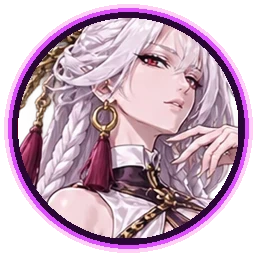
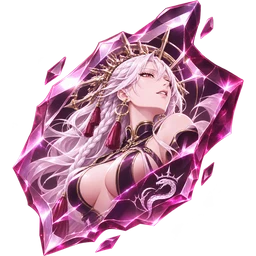
v188：維歐娜印記與特效調整、限定池 300 碎片與皮膚兌換、抽獎按鈕置中
Claude-Session: https://claude.ai/code/session_01QdhywRXf3CPbK6yPmqVdsn

diff --git a/js/viona_v187.js b/js/viona_v187.js
@@ -6,7 +6,7 @@
    被動「女神之印」（存在維歐娜身上，最多 3 層）：
      ・每施放一招 +1 層（第 1～3 招說明裡的「附加一層」就是這一層，不會重複疊）。
      ・每層讓對手對維歐娜造成的傷害 -10%。
-     ・達到 3 層時進行「臣服判定」（50%）：成功 → 對手隨機一招的次數歸 0（BOSS 改為失去目前體力 20%），印記歸零重新累積；失敗則保持 3 層，下次出招再判定。
+     ・v188 使用者 11/09：最多 3 層；滿 3 層必定觸發被動「臣服」→ 對手隨機一招的次數歸 0（BOSS 改為失去目前體力 20%），效果結束後印記歸零重新累積。
    狀態：
      魅惑（ABN.charm，2 回合）：施加時攻擊 -1、速度 -1；神妃對魅惑中的對手傷害 +40%。
      臣服（ABN.subdue，CC）：無法行動，施加時解除對手的能力提升與強化效果。
@@ -14,7 +14,7 @@
    特效：紫紅色系漸層（VFX 表）。 */
 (function () {
   if (typeof CHARACTERS === 'undefined') return;
-  const V = 187, img = n => `assets/chars/${n}.webp?v=${V}`, ui = n => `assets/ui/${n}.webp?v=${V}`;
+  const V = 188, img = n => `assets/chars/${n}.webp?v=${V}`, ui = n => `assets/ui/${n}.webp?v=${V}`;
   const B = () => (typeof battle !== 'undefined' && battle) || null;
   const L = m => { try { log(m); } catch (e) { } };
   const R = (a, b) => a + Math.random() * (b - a), pct = x => Math.round(x * 100);
@@ -33,20 +33,20 @@
 
   /* ---------- 角色資料 ---------- */
   const S = (o) => Object.assign({ accuracy: 100, maxPP: o.pp, tags: [] }, o);
-  const PASSIVE = '【被動・女神之印】每施放一招累積 1 層（最多 3 層），每層使對手對自己的傷害 -10%；滿 3 層時 50% 觸發「臣服判定」：對手隨機一招的次數歸 0（BOSS 改為失去目前體力 20%），之後印記重新累積。';
+  const PASSIVE = '【被動・女神之印】每施放一招累積 1 層（最多 3 層），每層使對手對自己的傷害 -10%；不論疊幾次最多 3 層；滿 3 層時立刻觸發「臣服」：對手隨機一招的次數歸 0（BOSS 改為失去目前體力 20%），效果結束後印記歸零、重新累積。';
   CHARACTERS.viona = { id: 'viona', name: '賽博亞齊·維歐娜', title: '初代女帝', types: ['超能'], scale: 1, worldScale: 1, battleScale: SZ0, ai: 'control',
     image: img('viona'), avatar: img('viona_face'), ultimateBg: img('viona_venus'), cardPos: '50% 8%', cardFocus: '52% 10%',
     maxHp: 2150, baseSpeed: 124, statScale: 1.2, role: '攻擊控制型',
     desc: '本遊戲原創角色。亞馬遜百合·九蛇島的初代女帝，空白一百年中少數被記錄下來的傳說人物，擁有極高的智謀與強大的實力。吃下人人果實·幻獸種·維納斯型態，手持無上大快刀「神妃」。【定位】攻擊控制型：用「女神之印」削弱對手的傷害並讓對手臣服，魅惑與臣服控場，維納斯型態下以終焉·黃昏一擊定勝負。' + PASSIVE,
     passive: PASSIVE,
     skills: [
-      S({ name: '垂憐', type: 'attack', power: 100, pp: 10, anima: 'petals', desc: '【範圍】敵方全體（後排同樣受到傷害）。造成 180% 攻擊傷害，附加 1 層女神之印。45% 機率使對手「魅惑」2 回合：攻擊 -1、速度 -1。',
+      S({ name: '垂憐', type: 'attack', power: 100, pp: 10, anima: 'snake', desc: '【範圍】敵方全體（後排同樣受到傷害）。造成 180% 攻擊傷害，附加 1 層女神之印。45% 機率使對手「魅惑」2 回合：攻擊 -1、速度 -1。',
         tags: [['全體', 'red'], ['魅惑', 'gold'], ['女神之印', 'gold']], effect: { randomMultiplierRange: [1.8, 1.8], splash: 1, vioCharm: .45 } }),
       S({ name: '神妃', type: 'attack', power: 100, pp: 8, anima: 'slash', desc: '【範圍】單體。無上大快刀「神妃」斬擊，造成 100～500% 傷害，無視 30% 防禦；對「魅惑」中的對手傷害再 +40%。附加 1 層女神之印。',
         tags: [['斬擊', 'red'], ['破防', 'red'], ['魅惑增傷', 'gold']], effect: { randomMultiplierRange: [1, 5], vioIgnoreDef: .3, vioCharmBonus: .4 } }),
       S({ name: '萬王俯首', type: 'support', power: 0, pp: 5, anima: 'awaken', desc: '【範圍】自身＋對手。全能力 +1，附加 1 層女神之印；每 1 層印記使對手有 25% 機率「臣服」1 回合（3 層＝75%）：無法行動，且能力提升與強化效果全部解除。',
         tags: [['強化', 'gold'], ['臣服', 'red'], ['女神之印', 'gold']], effect: { statUpAll: 1, vioSubdueStack: .25 } }),
-      S({ name: '維納斯降臨', type: 'support', power: 0, pp: 3, anima: 'awaken', desc: '【範圍】自身＋對手。進入「維納斯型態」2 回合，女神之印直接疊滿 3 層；下回合攻擊 +30%、2 回合受到的傷害 -10%；對手 2 回合每回合受到 100～1000 固定傷害；清除自身的負面狀態與能力下降。這一回合對手的攻擊無效，並 100% 反彈。',
+      S({ name: '維納斯降臨', type: 'support', power: 0, pp: 3, anima: 'awaken', desc: '【範圍】自身＋對手。進入「維納斯型態」2 回合，女神之印直接疊滿 3 層（立刻觸發被動臣服，之後歸零重新累積）；下回合攻擊 +30%、2 回合受到的傷害 -10%；對手 2 回合每回合受到 100～1000 固定傷害；清除自身的負面狀態與能力下降。這一回合對手的攻擊無效，並 100% 反彈。',
         tags: [['變身', 'gold'], ['反彈', 'green'], ['淨化', 'green'], ['固定傷害', 'red']],
         effect: { vioVenus: { turns: 2 }, nextAttackMult: 1.3, nextAttackMultTurns: 1, damageReductionTurns: 2, damageReductionValue: .1, clearSelfDebuffs: true, reflectTurns: 1, reflectMultiplier: 1, vioDot: [100, 1000, 2] } }),
       S({ name: '終焉·黃昏', type: 'attack', power: 100, pp: 2, ultimate: true, anima: 'slash', desc: '奧義（無法用道具恢復次數）。【範圍】敵方全體。對手體力直接降到最大體力的 10%（BOSS 無效），再造成 520～1314% 傷害、無視 20～50% 防禦；每層女神之印最終傷害 +15%（最多 +45%）。45% 機率使對手「臣服」1 回合；隨機降低對手的技能共 5 次（BOSS 無效）。【維納斯型態下施放】追加一次 160% 的神罰傷害（無視 20% 減傷），並進入「自由」2 回合：不受任何控制與限制。',
@@ -54,16 +54,16 @@
     ] };
   if (typeof CHARACTER_ORDER !== 'undefined' && !CHARACTER_ORDER.includes('viona')) CHARACTER_ORDER.push('viona');
   if (typeof CHAR_RARITY !== 'undefined') CHAR_RARITY.viona = 'UR';
-  if (typeof CHAR_OBTAIN !== 'undefined') CHAR_OBTAIN.viona = { boss: 0, bossFirst: 0, bossRepeat: 0, eventOnly: true, npc: '本遊戲原創角色・限定抽獎池「初代女帝」：集滿 150 碎片合成（無法從一般召喚取得）' };
-  if (typeof SKINS !== 'undefined') SKINS.viona_bunny = { char: 'viona', name: '無名女郎', image: img('viona_bunny'), avatar: img('viona_bunny_face'), battleScale: .55, how: '暫時無法獲得' };
+  if (typeof CHAR_OBTAIN !== 'undefined') CHAR_OBTAIN.viona = { boss: 0, bossFirst: 0, bossRepeat: 0, eventOnly: true, npc: '本遊戲原創角色・限定抽獎池「初代女帝」：集滿 300 碎片合成；碎片 100 片可兌換皮膚「無名女郎」（無法從一般召喚取得）' };
+  if (typeof SKINS !== 'undefined') SKINS.viona_bunny = { char: 'viona', name: '無名女郎', image: img('viona_bunny'), avatar: img('viona_bunny_face'), battleScale: .55, how: '限定召喚「初代女帝」：碎片 100 片兌換' };
 
   /* 限定抽獎池＋檔期 */
   if (typeof EVENT_POOLS !== 'undefined' && !EVENT_POOLS.some(p => p.id === 'venus_viona'))
-    EVENT_POOLS.push({ id: 'venus_viona', tab: '初代女帝', series: '原創系列', name: '原創系列 初代女帝 限定活動', banner: ui('event_banner_viona'), need: 150,
+    EVENT_POOLS.push({ id: 'venus_viona', tab: '初代女帝', series: '原創系列', name: '原創系列 初代女帝 限定活動', banner: ui('event_banner_viona'), need: 300,
       amount: [[20, .6], [30, .3], [50, .1]], pity: 120, newbieFree: 10, dailyFree: 3, bountyBonus: 2, tokenCost: 1,
-      shards: [{ char: 'viona', rate: .02, icon: ui('shard_viona'), color: '#e04cff' }] });
+      shards: [{ char: 'viona', rate: .02, icon: ui('shard_viona'), color: '#e04cff', skin: { key: 'viona_bunny', need: 100 } }] });
   if (typeof EVENT_CALENDAR !== 'undefined' && !EVENT_CALENDAR.some(c => c.id === 'venus_viona'))
-    EVENT_CALENDAR.push({ id: 'venus_viona', start: '2026-11-09 00:00', end: '2026-12-10 00:00', label: '11～12 月限定' });
+    EVENT_CALENDAR.push({ id: 'venus_viona', start: '2026-11-11 00:00', end: '2026-12-13 00:00', label: '11～12 月限定', preview: '2026-11-09 00:00' }); /* v188：11/11～12/12，開放前顯示預告 */
 
   /* 結算畫面臉部位置 */
   window.addEventListener('DOMContentLoaded', () => { if (window.CHAR_FACE) Object.assign(CHAR_FACE, { 'assets/chars/viona.webp': [.515, .107, .093], 'assets/chars/viona_venus.webp': [.5, .171, .077], 'assets/chars/viona_bunny.webp': [.497, .196, .126] }); });
@@ -71,7 +71,7 @@
   /* ---------- 戰鬥狀態 ---------- */
   const isV = f => !!(f && f.id === 'viona');
   const st = f => (f.__vio = f.__vio || { marks: 0, venus: 0, base: null });
-  function chips(f) { const I = st(f); return `${I.marks ? `<span class="chip up" title="每層使對手對自己的傷害 -10%；3 層時 50% 觸發臣服判定">女神之印 ${'◆'.repeat(I.marks)}</span>` : ''}${I.venus > 0 ? `<span class="chip up" title="維納斯型態：終焉·黃昏追加神罰並進入自由">維納斯型態 ${I.venus}</span>` : ''}`; }
+  function chips(f) { const I = st(f); return `${I.marks ? `<span class="chip up" title="每層使對手對自己的傷害 -10%；滿 3 層觸發臣服後歸零">女神之印 ${'◆'.repeat(I.marks)}</span>` : ''}${I.venus > 0 ? `<span class="chip up" title="維納斯型態：終焉·黃昏追加神罰並進入自由">維納斯型態 ${I.venus}</span>` : ''}`; }
   function refresh(f) { try { if (onScreen(f) && typeof renderHUD === 'function') renderHUD(); } catch (e) { } }
   function setVenus(f, on) {
     const I = st(f);
@@ -91,13 +91,13 @@
   }
   function addMark(f, t) {
     const I = st(f); if (I.marks < 3) { I.marks++; L(`💜 女神之印 ${I.marks}/3（對手對 ${f.name} 的傷害 -${I.marks * 10}%）`); }
-    if (I.marks >= 3 && t && t.hp > 0 && t !== f) {
-      if (Math.random() < .5) {
-        if (isBossT(t)) { const d = Math.max(1, Math.floor(t.hp * .2)); t.hp = Math.max(1, t.hp - d); try { showDamage(sideOf(t), d, '#e04cff'); } catch (e) { } L(`👑 臣服判定成功！${t.name} 失去目前體力的 20%（${d}）`); }
-        else { const K = (t.skills || []).filter(s => s && s.pp > 0); if (K.length) { const s = K[Math.floor(Math.random() * K.length)]; s.pp = 0; L(`👑 臣服判定成功！${t.name} 的「${s.name}」次數歸 0`); } else L(`👑 臣服判定成功！但 ${t.name} 已經沒有可用的招式了`); }
-        say(t, '臣服'); I.marks = 0; L('💜 女神之印歸零，重新累積');
-        try { if (onScreen(t) && t === B().player && typeof renderSkills === 'function') renderSkills(); } catch (e) { }
-      } else L('💜 臣服判定失敗，女神之印保持 3 層');
+    if (I.marks >= 3) {
+      if (t && t.hp > 0 && t !== f) {
+        if (isBossT(t)) { const d = Math.max(1, Math.floor(t.hp * .2)); t.hp = Math.max(1, t.hp - d); try { showDamage(sideOf(t), d, '#e04cff'); } catch (e) { } L(`👑 女神之印滿 3 層・臣服：${t.name} 失去目前體力的 20%（${d}）`); }
+        else { const K = (t.skills || []).filter(s => s && s.pp > 0); if (K.length) { const s = K[Math.floor(Math.random() * K.length)]; s.pp = 0; L(`👑 女神之印滿 3 層・臣服：${t.name} 的「${s.name}」次數歸 0`); } else L(`👑 女神之印滿 3 層・臣服：${t.name} 已經沒有可用的招式了`); }
+        say(t, '臣服'); try { if (onScreen(t) && t === B().player && typeof renderSkills === 'function') renderSkills(); } catch (e) { }
+      }
+      I.marks = 0; L('💜 女神之印歸零，重新累積');
     }
     refresh(f);
   }
@@ -132,7 +132,7 @@
       try { if (isV(actor) && skill) { const ef = skill.effect || {}, I = st(actor), foe = target && target !== actor ? target : null;
         if (ef.vioCharm && foe && foe.hp > 0 && Math.random() < ef.vioCharm && typeof inflict === 'function' && inflict(foe, 'charm', 2)) { foe.buffs.atk = Math.max(-6, (foe.buffs.atk || 0) - 1); foe.buffs.spd = Math.max(-6, (foe.buffs.spd || 0) - 1); say(foe, '魅惑'); }
         if (ef.vioSubdueStack && foe) { const p = Math.min(1, ef.vioSubdueStack * (I.marks + 1)); if (Math.random() < p) subdue(actor, foe, `機率 ${pct(p)}%`); else L(`🙇 臣服沒有成功（機率 ${pct(p)}%）`); }
-        if (ef.vioVenus) { if (typeof clearNegativeStages === 'function') clearNegativeStages(actor); I.venus = ef.vioVenus.turns; I.fresh = 1; if (!I.base) setVenus(actor, true); I.marks = 2; L(`🌸 ${actor.name} 化身維納斯型態（${I.venus} 回合）！女神之印疊滿`); say(actor, '維納斯降臨'); }
+        if (ef.vioVenus) { if (typeof clearNegativeStages === 'function') clearNegativeStages(actor); I.venus = ef.vioVenus.turns; I.fresh = 1; if (!I.base) setVenus(actor, true); I.marks = 2; L(`🌸 ${actor.name} 化身維納斯型態（${I.venus} 回合）！女神之印直接疊到 3 層`); say(actor, '維納斯降臨'); }
         if (ef.vioDot && foe && foe.hp > 0) { foe.status.__vioDot = { t: ef.vioDot[2], a: ef.vioDot[0], b: ef.vioDot[1] }; L(`💜 ${foe.name} 接下來 ${ef.vioDot[2]} 回合每回合受到 ${ef.vioDot[0]}～${ef.vioDot[1]} 固定傷害`); }
         if (ef.vioFinal && foe) { const F = ef.vioFinal;
           if (foe.hp > 0 && Math.random() < F.sub) subdue(actor, foe, '終焉·黃昏');
@@ -159,27 +159,31 @@
 
   /* ---------- 特效：紫紅色系漸層 ---------- */
   const X = () => FXE.P, sl = ms => (typeof sleep === 'function' ? sleep(ms) : new Promise(res => setTimeout(res, ms)));
+  /* v188 使用者 11/09：不要花瓣，以蛇、斬擊、羽翼、光柱與爆炸為主，紫紅色漸層 */
   const PK = ['#ff4fd8', '#e04cff', '#a63cff', '#ffd1f5', '#ffffff'];
+  const SNAKE = { body: '#efe2f4', belly: '#ffd1f5', eye: '#ff2a6a', w: 52, len: 480 };
+  const boom = (x, y, r) => { X().burst(x, y, { r, color: '#e04cff', n: 26 }); X().ring(x, y, { r1: r * 1.8, color: '#ff4fd8', w: 10, life: .45 }); X().particles({ x, y, n: 30, spd: [200, 520], life: [.4, .8], size: [3, 8], colors: PK, shape: 'spark', add: true, g: 140 }); };
   const VFX = {
-    '垂憐': async A => { SFX.play('buff'); X().tint('#3a0a3f', .8, .4); X().particles({ x: A.f.x, y: A.f.y - 30, n: 40, spd: [120, 360], ang: [-.5, .5].map(a => a + (A.d > 0 ? 0 : Math.PI)), life: [.8, 1.3], size: [6, 12], colors: PK, shape: 'petal', g: 30 }); await sl(320);
-      for (let i = 0; i < 3; i++) setTimeout(() => X().ring(A.t.x, A.t.y, { r1: 160 + i * 70, color: i % 2 ? '#ff4fd8' : '#a63cff', w: 10 - i * 2, life: .55 }), i * 110);
-      X().burst(A.t.x, A.t.y, { r: 140, color: '#e04cff' }); await sl(260); X().particles({ x: A.t.x, y: A.t.y, n: 30, spd: [80, 260], life: [.5, 1], size: [5, 10], colors: ['#ff9cf5', '#ffffff', '#e04cff'], shape: 'petal', add: true, g: -40 }); },
+    '垂憐': async A => { SFX.play('dark'); X().tint('#2a0530', .9, .4);
+      X().serpent(A.f.x - A.d * 160, A.f.y + 50, A.t.x + A.d * 160, A.t.y - 40, Object.assign({}, SNAKE, { life: 1 })); await sl(520);
+      SFX.play('explode'); boom(A.t.x, A.t.y, 120); await sl(140); X().rays(A.t.x, A.t.y, { r: 300, n: 14, c1: 'rgba(224,76,255,.85)' }); shake(); },
     '神妃': async A => { moveFighter(A.S, 'dash'); SFX.play('whoosh'); await sl(200);
       X().slash(A.t.x, A.t.y, { a: -2.4, span: 1.7, r: 230, w: 30, color: '#a63cff', life: .32 }); await sl(60); X().slash(A.t.x, A.t.y, { a: -2.4, span: 1.7, r: 230, w: 14, color: '#ffd1f5', life: .26 });
-      await sl(90); X().slash(A.t.x, A.t.y, { a: .8, span: 1.5, r: 210, w: 24, color: '#ff4fd8', life: .3 }); SFX.play('explode');
-      X().particles({ x: A.t.x, y: A.t.y, n: 34, spd: [180, 460], life: [.4, .8], size: [4, 9], colors: PK, shape: 'spark', add: true, g: 120 }); X().rays(A.t.x, A.t.y, { r: 280, n: 16, c1: 'rgba(255,79,216,.85)' }); X().flash('#ffd1f5', .25, .14); shake(); },
-    '萬王俯首': async A => { SFX.play('buff'); X().tint('#24062e', 1, .45); X().vortex(A.f.x, A.f.y, { r: 170, color: '#5a1470', core: '#1a0420', rim: '#ff4fd8', arms: 6, spin: 5, life: .8 }); await sl(260);
-      X().ring(A.f.x, A.f.y, { r1: 220, color: '#ffd1f5', w: 8, life: .5 }); X().pillar(A.t.x, A.t.y, { w: 120, color: '#a63cff', life: .6 }); await sl(160);
-      X().particles({ x: A.t.x, y: A.t.y - 120, n: 26, spd: [60, 180], ang: [1.3, 1.9], life: [.6, 1.1], size: [5, 9], colors: ['#e04cff', '#ffd1f5'], shape: 'spark', add: true, g: 260 }); },
-    '維納斯降臨': async A => { SFX.play('ult'); X().tint('#2a0530', 1.6, .6); X().wings(A.f.x, A.f.y - 40, { color: '#a63cff', life: 1.2 });
-      X().vortex(A.f.x, A.f.y, { r: 230, color: '#5a1470', core: '#ffffff', rim: '#ff4fd8', arms: 8, spin: 7, life: 1.1 });
-      X().particles({ x: A.f.x, y: A.f.y - 60, n: 60, spd: [120, 380], life: [.8, 1.4], size: [6, 12], colors: PK, shape: 'petal', g: 50 }); await sl(700);
-      X().rays(A.f.x, A.f.y - 80, { r: 360, n: 18, c1: 'rgba(255,209,245,.9)' }); X().ring(A.f.x, A.f.y, { r1: 260, color: '#ff4fd8', w: 12, life: .6 }); X().flash('#ffffff', .4, .22); shake(); },
-    '終焉·黃昏': async A => { moveFighter(A.S, 'leap'); SFX.play('ult'); X().tint('#120016', 1.8, .7); X().wings(A.f.x, A.f.y - 40, { color: '#e04cff', life: 1 }); await sl(380);
-      X().beam(A.f.x, A.f.y - 40, A.t.x, A.t.y, { w: 70, c1: '#ffffff', c2: '#e04cff', life: .55 }); await sl(160); X().beam(A.f.x, A.f.y - 40, A.t.x, A.t.y, { w: 34, c1: '#ffd1f5', c2: '#a63cff', life: .45 });
+      await sl(90); X().slash(A.t.x, A.t.y, { a: .8, span: 1.5, r: 210, w: 24, color: '#ff4fd8', life: .3 }); await sl(80);
+      SFX.play('explode'); boom(A.t.x, A.t.y, 130); X().rays(A.t.x, A.t.y, { r: 280, n: 16, c1: 'rgba(255,79,216,.85)' }); X().flash('#ffd1f5', .25, .14); shake(); },
+    '萬王俯首': async A => { SFX.play('buff'); X().tint('#24062e', 1, .45); X().wings(A.f.x, A.f.y - 40, { color: '#a63cff', life: .8 });
+      X().serpent(A.f.x + A.d * 40, A.f.y + 80, A.t.x, A.t.y + 60, Object.assign({}, SNAKE, { life: .9, w: 40, len: 380 })); await sl(420);
+      X().pillar(A.t.x, A.t.y, { w: 130, color: '#a63cff', life: .65 }); X().ring(A.f.x, A.f.y, { r1: 220, color: '#ffd1f5', w: 8, life: .5 }); await sl(160); boom(A.t.x, A.t.y + 30, 90); },
+    '維納斯降臨': async A => { SFX.play('ult'); X().tint('#2a0530', 1.6, .6); X().wings(A.f.x, A.f.y - 40, { color: '#a63cff', life: 1.3 });
+      X().serpent(A.f.x - A.d * 200, A.f.y + 80, A.f.x + A.d * 120, A.f.y - 180, Object.assign({}, SNAKE, { life: 1.2 })); await sl(420);
+      X().pillar(A.f.x, A.f.y, { w: 190, color: '#ff4fd8', life: .9 }); await sl(320);
+      X().rays(A.f.x, A.f.y - 80, { r: 360, n: 18, c1: 'rgba(255,209,245,.9)' }); boom(A.f.x, A.f.y - 40, 140); X().flash('#ffffff', .4, .22); shake(); },
+    '終焉·黃昏': async A => { moveFighter(A.S, 'leap'); SFX.play('ult'); X().tint('#120016', 1.8, .7); X().wings(A.f.x, A.f.y - 40, { color: '#e04cff', life: 1.1 });
+      X().serpent(A.f.x - A.d * 240, A.f.y + 70, A.t.x + A.d * 140, A.t.y - 70, Object.assign({}, SNAKE, { life: 1.3, w: 64, len: 560 })); await sl(420);
+      X().beam(A.f.x, A.f.y - 40, A.t.x, A.t.y, { w: 70, c1: '#ffffff', c2: '#e04cff', life: .55 }); await sl(160);
       for (let i = 0; i < 6; i++) setTimeout(() => X().slash(A.t.x + R(-60, 60), A.t.y + R(-40, 40), { a: R(-3, 1), span: 1.6, r: 200 + i * 15, w: 20, color: PK[i % 3], life: .3 }), i * 70);
-      await sl(460); SFX.play('explode'); X().pillar(A.t.x, A.t.y, { w: 220, color: '#ff4fd8', life: .8 }); X().ring(A.t.x, A.t.y, { r1: 380, color: '#ffd1f5', w: 12, life: .6 });
-      X().particles({ x: A.t.x, y: A.t.y, n: 60, spd: [200, 560], life: [.6, 1.2], size: [5, 11], colors: PK, shape: 'petal', add: true, g: 80 }); X().flash('#ffffff', .45, .25); shake(); }
+      await sl(460); SFX.play('explode'); X().pillar(A.t.x, A.t.y, { w: 230, color: '#ff4fd8', life: .85 }); for (let i = 0; i < 3; i++) setTimeout(() => boom(A.t.x + R(-80, 80), A.t.y + R(-60, 40), 120 + i * 30), i * 120);
+      await sl(300); X().flash('#ffffff', .45, .25); shake(); }
   };
   if (typeof playChoreo === 'function') { const _pc = playChoreo;
     window.playChoreo = playChoreo = async function (side, actor, idx, skill) {

diff --git a/js/event.js b/js/event.js
@@ -15,6 +15,14 @@
   }
   window.openEventPreview = id => { pool = 'ev:' + PV; applyPool(); if (id) renderPreview(id); };
   /* 每位角色可以有自己的碎片需求（例：羅（七武海）80 片），沒寫就用活動池的 need */
+  /* v188：碎片可兌換的皮膚（shard.skin＝{ key, need }）。皮膚還沒換到之前，擁有角色後抽到的碎片不會自動換成覺醒結晶，留著換皮膚 */
+  const skinOwned = k => (((SAVE.data.skins || {}).owned) || []).includes(k);
+  const keepShard = s => !!(s && s.skin && SKINS[s.skin.key] && !skinOwned(s.skin.key));
+  function skinX(pl, cid) { const s = pl.shards.find(x => x.char === cid), E = st(pl); if (!s || !s.skin) return; const K = s.skin, need = K.need || 100, n = E.shards[cid] || 0;
+    if (skinOwned(K.key)) { toast('已經擁有這款皮膚'); return; } if (n < need) { toast(`碎片不足：需要 ${need} 片，目前 ${n} 片`); return; }
+    if (!confirm(`要用 ${need} 片${CHARACTERS[cid].name}碎片兌換皮膚「${SKINS[K.key].name}」嗎？`)) return;
+    E.shards[cid] = n - need; const S = SAVE.data.skins = SAVE.data.skins || { owned: [], equip: {} }; S.owned = S.owned || []; S.equip = S.equip || {}; S.owned.push(K.key); if (owned(cid)) S.equip[cid] = K.key;
+    SAVE.save(); if (typeof SFX !== 'undefined') SFX.play('rare'); toast(`獲得皮膚「${SKINS[K.key].name}」${owned(cid) ? '，已經換上' : ''}！`, 'gold'); if (window.renderLobby) renderLobby(); }
   const NEED = (pl, cid) => ((pl.shards.find(x => x.char === cid) || {}).need || pl.need);
   const phase = id => (typeof eventPhase === 'function' ? eventPhase(id) : 'live');
   const md = ms => { const d = new Date(ms + 8 * 3600e3); return `${String(d.getUTCMonth() + 1).padStart(2, '0')}/${String(d.getUTCDate()).padStart(2, '0')}`; };
@@ -55,16 +63,16 @@
   }
   /* v156：已經擁有的角色，抽到的碎片自動換成覺醒結晶（1 隻重複角色可分解的結晶 ÷ 合成需要的碎片數 × 片數，至少 1 個），不會白白堆著 */
   const gemOf = (pl, cid, n) => { const r = (typeof CHAR_RARITY !== 'undefined' && CHAR_RARITY[cid]) || 'SSR', per = (window.PROG && PROG.cfg && PROG.cfg.dupeGem && PROG.cfg.dupeGem[r]) || ({ SR: 10, SSR: 20, UR: 35, 'UR+': 50 })[r] || 20; return Math.max(1, Math.round(n * per / NEED(pl, cid))); };
-  function convertOwned(pl, E) { let g = 0; pl.shards.forEach(s => { const n = E.shards[s.char] || 0; if (n > 0 && typeof owned === 'function' && owned(s.char)) { g += gemOf(pl, s.char, n); E.shards[s.char] = 0; } }); if (g) { const inv = SAVE.data.inventory = SAVE.data.inventory || {}; inv.awaken_gem = (inv.awaken_gem || 0) + g; } return g; }
-  function grant(E, res) { res.forEach(x => { if (x.shard) { if (typeof owned === 'function' && owned(x.shard)) { x.gem = gemOf(P(), x.shard, x.n); const inv = SAVE.data.inventory; inv.awaken_gem = (inv.awaken_gem || 0) + x.gem; } else E.shards[x.shard] += x.n; } else SAVE.data.inventory[x.item] = (SAVE.data.inventory[x.item] || 0) + 1; }); SAVE.save(); }
+  function convertOwned(pl, E) { let g = 0; pl.shards.forEach(s => { const n = E.shards[s.char] || 0; if (n > 0 && typeof owned === 'function' && owned(s.char) && !keepShard(s)) { g += gemOf(pl, s.char, n); E.shards[s.char] = 0; } }); if (g) { const inv = SAVE.data.inventory = SAVE.data.inventory || {}; inv.awaken_gem = (inv.awaken_gem || 0) + g; } return g; }
+  function grant(E, res) { res.forEach(x => { if (x.shard) { if (typeof owned === 'function' && owned(x.shard) && !keepShard(P().shards.find(z => z.char === x.shard))) { x.gem = gemOf(P(), x.shard, x.n); const inv = SAVE.data.inventory; inv.awaken_gem = (inv.awaken_gem || 0) + x.gem; } else E.shards[x.shard] += x.n; } else SAVE.data.inventory[x.item] = (SAVE.data.inventory[x.item] || 0) + 1; }); SAVE.save(); }
 
   /* ---------- 畫面 ---------- */
   function render() {
     const E = st(), pane = $('evPane'); if (!pane) return;
     if (E.__msg) { toast(E.__msg, 'gold'); delete E.__msg; SAVE.save(); }
     const card = s => { const c = CHARACTERS[s.char], n = E.shards[s.char], own = owned(s.char), pct = Math.min(100, n / NEED(P(), s.char) * 100);
-      return `<div class="ev-shard" style="--c:${s.color}"><img src="${s.icon}" alt=""><div class="ev-sh-info"><b><span class="rar c-rar r-${(typeof CHAR_RARITY !== 'undefined' && CHAR_RARITY[s.char]) || 'SSR'}">${(typeof CHAR_RARITY !== 'undefined' && CHAR_RARITY[s.char]) || 'SSR'}</span> ${c.name}<small>${c.title}</small></b><div class="ev-bar"><i style="width:${pct}%"></i></div><small>${own ? '改給覺醒結晶' : `碎片 ${n}/${NEED(P(), s.char)}`}・單抽機率 ${Math.round(s.rate * 1000) / 10}%</small></div>
-        ${own ? '<span class="ev-owned">已擁有</span>' : `<button class="btn-gold sm" data-synth="${s.char}" ${n >= NEED(P(), s.char) ? '' : 'disabled'}>合成</button>`}</div>`; };
+      return `<div class="ev-shard" style="--c:${s.color}"><img src="${s.icon}" alt=""><div class="ev-sh-info"><b><span class="rar c-rar r-${(typeof CHAR_RARITY !== 'undefined' && CHAR_RARITY[s.char]) || 'SSR'}">${(typeof CHAR_RARITY !== 'undefined' && CHAR_RARITY[s.char]) || 'SSR'}</span> ${c.name}<small>${c.title}</small></b><div class="ev-bar"><i style="width:${pct}%"></i></div><small>${own && !keepShard(s) ? '改給覺醒結晶' : `碎片 ${n}/${own ? s.skin.need : NEED(P(), s.char)}`}・單抽機率 ${Math.round(s.rate * 1000) / 10}%</small>${s.skin && SKINS[s.skin.key] ? `<small class="ev-skinx">皮膚「${SKINS[s.skin.key].name}」：碎片 ${s.skin.need} 片兌換${skinOwned(s.skin.key) ? '（已擁有）' : ''}</small>` : ''}</div>
+        <span class="ev-acts">${own ? '<span class="ev-owned">已擁有</span>' : `<button class="btn-gold sm" data-synth="${s.char}" ${n >= NEED(P(), s.char) ? '' : 'disabled'}>合成</button>`}${keepShard(s) ? `<button class="btn-ghost sm" data-skinx="${s.char}" ${n >= s.skin.need ? '' : 'disabled'}>換皮膚</button>` : ''}</span></div>`; };
     const UT = (SAVE.data.inventory || {}).event_ticket || 0, TT = E.tickets + UT; /* v115：限定抽獎券（月費、VIP 禮包）可在任一限定池使用 */
     const cost1 = TT >= 1 ? '1 張抽獎券' : `${P().tokenCost} 枚寶藏幣`, cost10 = TT >= 10 ? '10 張抽獎券' : `${P().tokenCost * 10} 枚寶藏幣`;
     const ph = phase(P().id), W = typeof eventWindow === 'function' ? eventWindow(P().id) : null, soon = ph === 'soon';
@@ -83,6 +91,7 @@
           <tr><td>保底</td><td colspan="2">連續 ${P().pity - 1} 抽沒有碎片時，第 ${P().pity} 抽必定出現碎片</td></tr></table></details>
       </div>`;
     pane.querySelectorAll('[data-synth]').forEach(b => b.onclick = () => synth(b.dataset.synth));
+    pane.querySelectorAll('[data-skinx]').forEach(b => b.onclick = () => { skinX(P(), b.dataset.skinx); render(); });
     if ($('evPull1')) { $('evPull1').onclick = () => pull(1); $('evPull10').onclick = () => pull(10); }
   }
   function synth(id) {

diff --git a/js/data_ext.js b/js/data_ext.js
@@ -360,7 +360,7 @@
   DEFAULT_NEWS.unshift({ id: 'd1066', date: '2026-10-10', tag: '更新', title: '新召喚演出・歌姬挑戰新歌 We Are!', body: '・懸賞召喚（單抽、十連）換上全新演出：黃金電話蟲來電、賞金鑑定、霸王色……最後撕開封條揭曉\n・歌姬挑戰新增「We Are!」（三個難度，第一次 S 以上一樣可拿美音碎片）\n・新時代、私は最強的音符重新對齊音樂節拍，打起來更準\n・娜美皮膚「月下魔法師」戰鬥中改為面向對手' });
   DEFAULT_NEWS.unshift({ id: 'd1063', date: '2026-10-09', tag: '修正', title: '新手教學期間不再跳出月費宣傳', body: '・新手大廳導覽進行中不會再跳出月費宣傳，導覽完成（或略過）後才會顯示' });
   DEFAULT_NEWS.unshift({ id: 'd1062', date: '2026-10-09', tag: '更新', title: '每位角色的招牌技能動畫・載入畫面修正', body: '・每位角色出招時都有自己的招牌動畫：阿修羅鬼影、火拳、ROOM、鳥籠、不死鳥火翼、青龍、雷鼓、愛心、蝙蝠……奧義時規模更大\n・修正載入畫面背景被換掉的問題，恢復洛基背景' });
-  DEFAULT_NEWS.unshift({ id: 'd1109b', date: '2026-11-09', tag: '新角色', title: '限定召喚「初代女帝」：賽博亞齊·維歐娜（UR）登場', body: '・本遊戲原創角色：亞馬遜百合·九蛇島初代女帝，空白一百年的傳說人物；人人果實·幻獸種·維納斯型態，手持無上大快刀「神妃」\n・攻擊控制型：被動「女神之印」削弱對手傷害、滿 3 層觸發臣服判定；魅惑、臣服控場；「維納斯降臨」化身維納斯型態，奧義「終焉·黃昏」\n・限定召喚「初代女帝」11/09～12/09 開放，集滿 150 碎片合成\n・限定皮膚「無名女郎」敬請期待' });
+  DEFAULT_NEWS.unshift({ id: 'd1109b', date: '2026-11-09', tag: '新角色', title: '限定召喚「初代女帝」：賽博亞齊·維歐娜（UR）登場', body: '・本遊戲原創角色：亞馬遜百合·九蛇島初代女帝，空白一百年的傳說人物；人人果實·幻獸種·維納斯型態，手持無上大快刀「神妃」\n・攻擊控制型：被動「女神之印」削弱對手傷害、滿 3 層觸發臣服；魅惑、臣服控場；「維納斯降臨」化身維納斯型態，奧義「終焉·黃昏」\n・限定召喚「初代女帝」11/11～12/12 開放，集滿 300 碎片合成\n・限定皮膚「無名女郎」：同一池的碎片 100 片兌換' });
   DEFAULT_NEWS.unshift({ id: 'd1109a', date: '2026-11-09', tag: '新角色', title: '新角色：文斯莫克·蕾玖、妮可·羅賓（和之國）', body: '・文斯莫克·蕾玖（SR・控制型）：毒粉紅、毒之吻、吸毒、隱形戰鬥服，奧義「劇毒之霧・粉紅暴風」。一般懸賞召喚可抽到，蛋糕島篇可以遇到她\n・妮可·羅賓（和之國）（SSR・控制型）：六輪開花·緊鎖、千紫萬紅·巨大之手、百花繚亂·翅膀、惡魔開花，奧義「惡魔開花·大噴泉緊鎖」。一般懸賞召喚可抽到，和之國篇可以遇到她\n・薇薇的皮膚「水之都的祈禱」換上新立繪\n・羅賓的皮膚「城市女郎」下架，已擁有的船長補償覺醒結晶 ×10' });
   DEFAULT_NEWS.unshift({ id: 'd1108d', date: '2026-11-08', tag: '更新', title: '懸賞、成就一鍵領取・商店一次買多個', body: '・懸賞任務：可領取的排在最上面，加上「全部領取」；還沒完成的按「前往」直接到對應玩法；卡片變精簡，一頁看完\n・成就：可領取 → 進行中 → 已領取 排序，每個分頁可以「全部領取」，並顯示每個成就的獎勵\n・道具商店：分成戰鬥／培養／票券・幣三類，顯示擁有數量；點道具可以一次買 ×1／×5／×10／最大\n・背包「取得途徑」補上限時祭典與每日秘境' });
   DEFAULT_NEWS.unshift({ id: 'd1108c', date: '2026-11-08', tag: '新玩法', title: '大廳右側新增「限時祭典」與「每日秘境」', body: '・限時祭典：依節慶自動開放（萬聖夜、艾爾巴夫巨人戰士祭、萬國聖誕晚宴、和之國新春祭、魯夫生日祭、水之七島夏日祭），初級／中級／高級三關，每天 5 次\n・打贏得到祭典徽章與活動抽獎券；祭典商店可換限定角色碎片、SSR 航海寶物、覺醒結晶、秘傳書、掃蕩券等\n・每日秘境（常駐）：貝里寶藏船、海軍本部訓練場、貝加龐克的寶物研究所、空島覺醒試煉、玩具屋補給庫，每天各 3 次，通關過的難度可以用掃蕩券直接掃蕩\n・角色介紹對照原作修正；每日懸賞任務種類增加（培養、天梯、掃蕩、歌姬、挖寶、秘境）' });

diff --git a/index.html b/index.html
@@ -85,7 +85,7 @@
 <link rel="stylesheet" href="css/account_v175.css?v=176">
 <link rel="stylesheet" href="css/ios_v177.css?v=179">
 <link rel="stylesheet" href="css/stages_v181.css?v=181">
-<link rel="stylesheet" href="css/sys_v183.css?v=186">
+<link rel="stylesheet" href="css/sys_v183.css?v=188">
 </head>
 <body>
 <div class="loader" id="loader" role="dialog" aria-modal="true" aria-label="遊戲載入中">
@@ -601,7 +601,7 @@
 <div class="loading" id="loading"><div class="ld-wheel"></div><span>載入中</span></div>
 
 <script src="js/data.js?v=169"></script>
-<script src="js/data_ext.js?v=187"></script>
+<script src="js/data_ext.js?v=188"></script>
 <script src="js/story_ext.js?v=160"></script>
 <script src="js/story_more.js?v=100"></script>
 <script src="js/story_more2.js?v=100"></script>
@@ -691,7 +691,7 @@
 <script src="js/roster_v142.js?v=143"></script>
 <script src="js/roster_v152.js?v=154"></script>
 <script src="js/roster_v185.js?v=185"></script>
-<script src="js/viona_v187.js?v=187"></script>
+<script src="js/viona_v187.js?v=188"></script>
 <script src="js/roster_v154.js?v=154"></script>
 <script src="js/roster_v154w.js?v=165"></script>
 <script src="js/roster_v164.js?v=164"></script>
@@ -740,9 +740,9 @@
 <script src="js/social.js?v=131"></script>
 <script src="js/live.js?v=130"></script>
 <script src="js/guild.js?v=116"></script>
-<script src="js/settings.js?v=187"></script>
+<script src="js/settings.js?v=188"></script>
 <script src="js/weekly.js?v=142"></script>
-<script src="js/event.js?v=165"></script>
+<script src="js/event.js?v=188"></script>
 <script src="js/music.js?v=164"></script>
 <script src="js/vip_v115.js?v=167"></script>
 <script src="js/skins_v143.js?v=185"></script>

diff --git a/css/sys_v183.css b/css/sys_v183.css
@@ -79,3 +79,11 @@
 .hp-table tr.hp-tdesc td{padding-top:0;font-size:12px;line-height:18px;color:#b8c4d6}
 .hp-table tr.hp-tdesc td span{display:block;color:#8fa0b8}
 .ps-note b{color:#ffd98a}
+
+/* v188 使用者 11/09「抽獎池按鈕文字沒有水平垂直居中」：限定池與一般召喚的抽獎按鈕一律 flex 置中；按鈕底部有 3px 立體邊（inset 陰影），下方多留 3px 讓文字落在可見按鈕面的正中間 */
+#gachaScreen .ev-pulls button,#gachaScreen .g-pulls button{display:flex!important;flex-direction:column!important;align-items:center!important;justify-content:center!important;gap:2px!important;padding:0 16px 3px!important;line-height:1.2!important;text-align:center!important;box-sizing:border-box}
+#gachaScreen .ev-pulls button small,#gachaScreen .g-pulls button small{display:block;margin:0!important;line-height:1.3!important}
+/* v188 限定池：碎片換皮膚 */
+.ev-shard .ev-acts{display:flex;flex-direction:column;align-items:stretch;justify-content:center;gap:8px;flex:none}
+.ev-shard .ev-acts>*{min-width:80px;height:32px;display:inline-flex;align-items:center;justify-content:center;margin:0;padding:0 12px}
+.ev-shard .ev-skinx{display:block;color:#ff9cf5}

diff --git a/js/settings.js b/js/settings.js
@@ -2,7 +2,7 @@
 window.addEventListener('beforeinstallprompt', e => { e.preventDefault(); window.__installPrompt = e; });
 /* 設定頁（大廳「設定」與首頁「設定」共用）＋ 新手教學（大廳聚光燈導覽）。
    設定存在 localStorage：op_gfx（畫質）、op_motion（減少動態）、op_bspeed（預設戰鬥速度）、op_vibe（震動回饋）、op_live_pop（即時對戰邀請通知）、op_text（文字大小）、op_fxpro（技能特效高／低，v138）。 */
-const GAME_VERSION = 'v187';
+const GAME_VERSION = 'v188';
 /* v148：目前的畫質（沒選過時：電腦＝極致、手機平板＝高畫質，和 e3three.js 的 E3_ULTRA 規則相同） */
 function gfxNow() { try { const g = localStorage.getItem('op_gfx'); if (g) return g; return !matchMedia('(pointer:coarse)').matches && Math.min(screen.width, screen.height) >= 700 && (navigator.deviceMemory || 8) >= 6 ? 'ultra' : 'high'; } catch (e) { return 'high'; } }
 (function () {

diff --git a/CHANGELOG.md b/CHANGELOG.md
@@ -3,6 +3,13 @@
 每累積約 20 個版本統整一次。逐版的完整紀錄（v1～v97）保存在 [docs/archive/README_v1-v97_完整更新紀錄.md](docs/archive/README_v1-v97_完整更新紀錄.md)。
 
 ## 未統整（v98 起，下次在 v118 左右統整）
+### v188（使用者 11/09 14:23～14:24：維歐娜調整、限定池宣傳圖、抽獎按鈕置中）
+- **女神之印**：最多 3 層；滿 3 層必定觸發被動臣服（對手隨機一招次數歸 0，BOSS 改為失去目前體力 20%），效果結束後歸零重新累積（取消原本 50% 判定）。
+- **特效**：拿掉花瓣，五招改以白蛇（serpent）、斬擊、羽翼、光柱與爆炸為主，紫紅漸層；垂憐的無特效動畫改為 snake。
+- **限定召喚「初代女帝」**：檔期改為 11/11～12/12（11/09 起預告）；合成需要 300 碎片；宣傳圖與碎片圖換成使用者提供的圖。
+- **碎片換皮膚**（js/event.js）：活動池碎片可設定 skin｛key, need｝；「無名女郎」用 100 片維歐娜碎片兌換（角色卡多一個「換皮膚」按鈕）；皮膚還沒換到之前，擁有維歐娜後抽到的碎片不會自動換成覺醒結晶。
+- **抽獎按鈕置中**（css/sys_v183.css）：限定池與一般召喚的抽獎按鈕改為 flex 垂直水平置中，扣掉底部 3px 立體邊，文字落在按鈕面正中間。
+
 ### v187（使用者 11/09 14:00：新增原創角色「賽博亞齊·維歐娜」）
 - **賽博亞齊·維歐娜**（viona，UR，初代女帝，攻擊控制型，超能屬性；新增 js/viona_v187.js）：立繪 0.65；第 4 招變身維納斯型態 0.7（viona_venus）；限定皮膚「無名女郎」0.55（viona_bunny，暫時無法獲得，白底已去背）。
 - **被動女神之印**：每施放一招 +1 層（最多 3）；每層使對手對她的傷害 -10%；滿 3 層 50% 臣服判定——對手隨機一招次數歸 0（BOSS：失去目前體力 20%），之後歸零。
